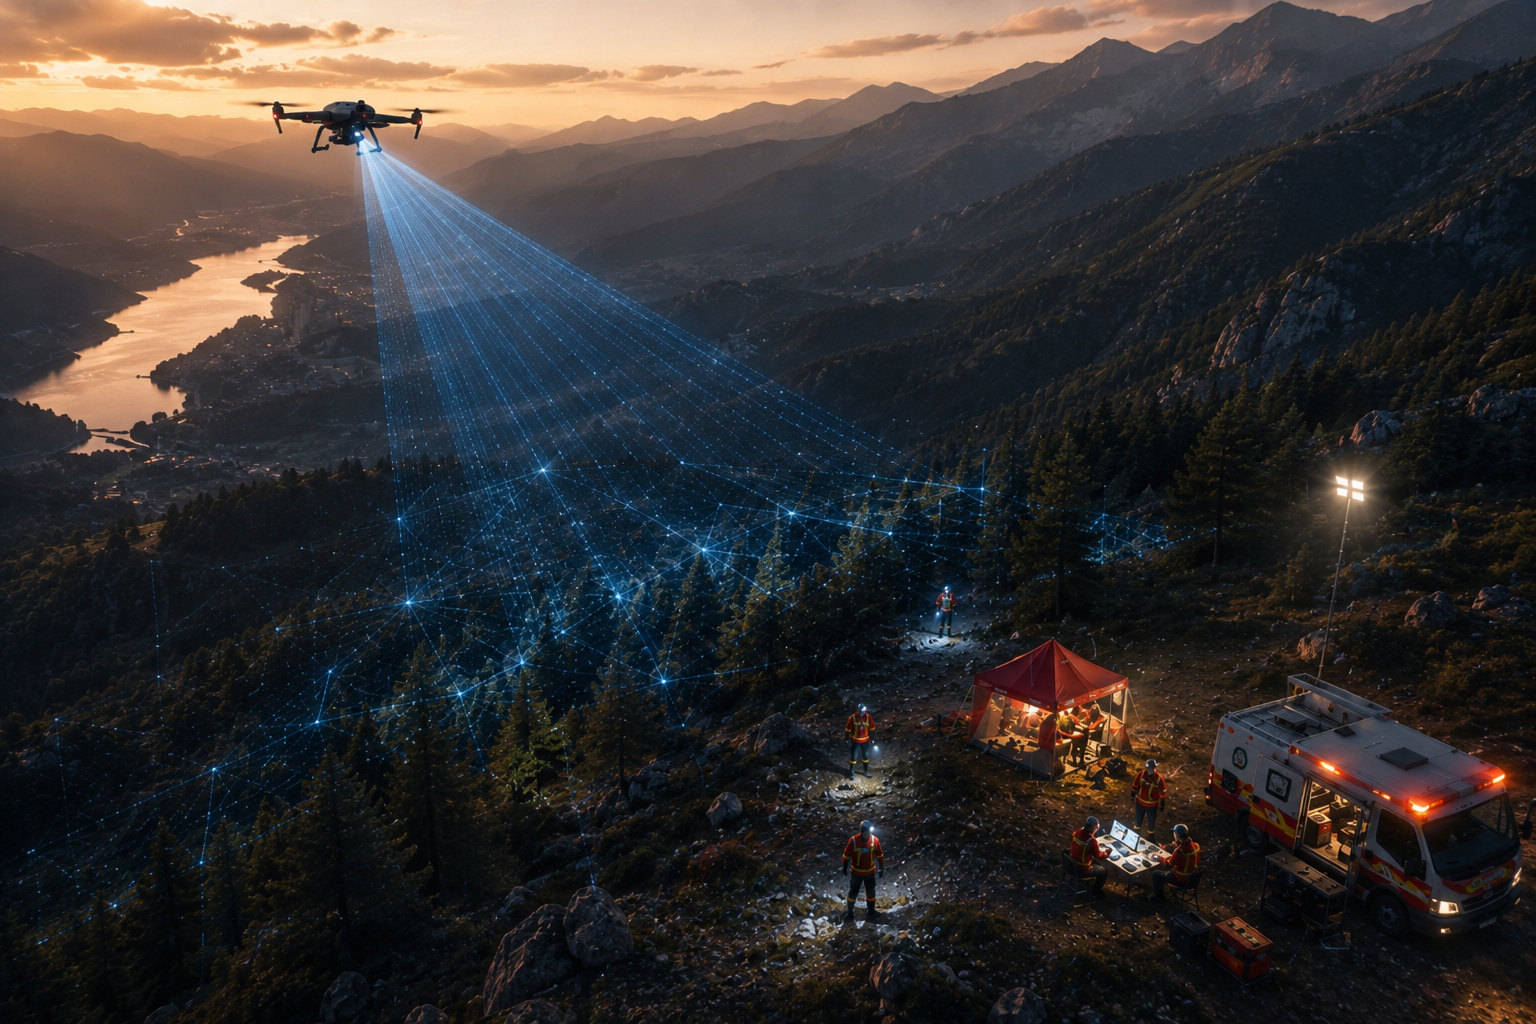
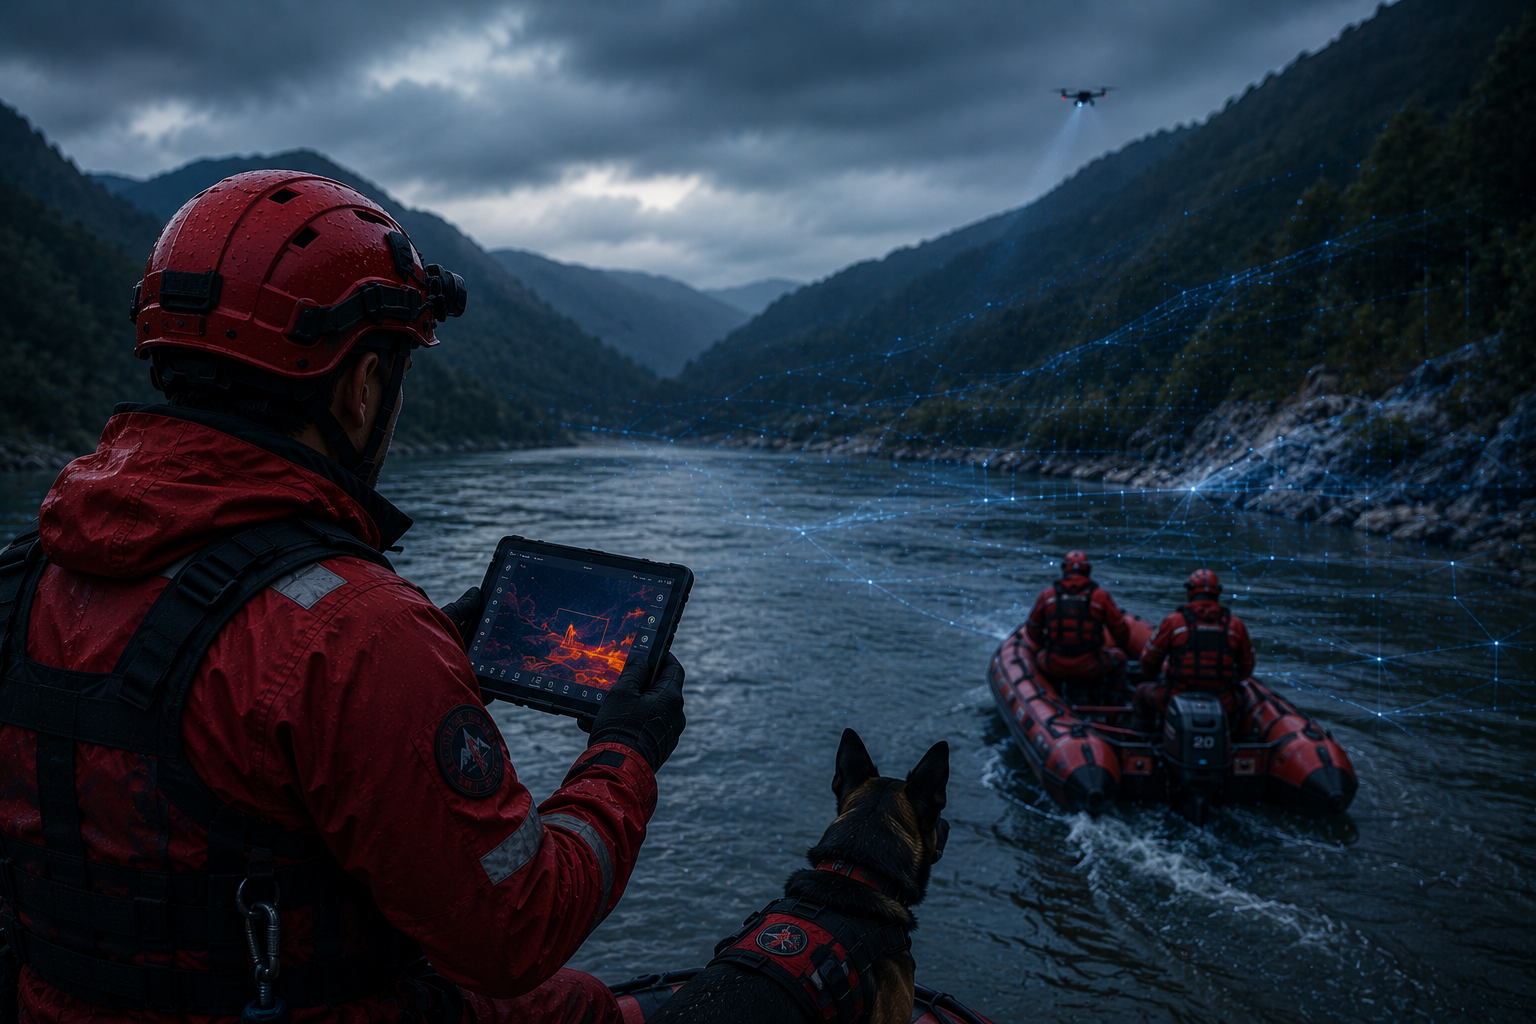
Update drone media and video modal styling

diff --git a/src/app/profesionalni-dronovi/page.module.scss b/src/app/profesionalni-dronovi/page.module.scss
@@ -988,12 +988,13 @@
   overflow: hidden;
   border: 1px solid var(--drone-line);
   background:
-    linear-gradient(rgba(56, 189, 248, 0.035) 1px, transparent 1px),
-    linear-gradient(90deg, rgba(56, 189, 248, 0.035) 1px, transparent 1px),
+    linear-gradient(rgba(56, 189, 248, 0.06) 1px, transparent 1px),
+    linear-gradient(90deg, rgba(56, 189, 248, 0.06) 1px, transparent 1px),
     #070a0f;
   background-size: 32px 32px, 32px 32px, auto;
   box-shadow: 0 30px 90px rgba(0, 0, 0, 0.52);
   cursor: default;
+  opacity: 1;
   pointer-events: auto;
 }
 
@@ -1004,28 +1005,38 @@
   align-items: center;
   justify-content: space-between;
   gap: 18px;
-  border-bottom: 1px solid var(--drone-line);
+  border-bottom: 1px solid rgba(56, 189, 248, 0.34);
+  background: #070a0f;
+  box-shadow: 0 12px 28px rgba(0, 0, 0, 0.38);
+  filter: none;
+  backdrop-filter: none;
+  opacity: 1;
   padding: 16px 18px;
+  transform: translateZ(0);
 
   div {
     display: grid;
     gap: 4px;
+    opacity: 1;
   }
 
   span {
-    color: var(--drone-accent-blue);
+    color: #67e8f9;
     font-family: var(--font-geist-mono), monospace;
     font-size: 10px;
     font-weight: 900;
     letter-spacing: 0.14em;
+    opacity: 1;
   }
 
   strong {
-    color: var(--drone-text);
+    color: #ffffff;
     font-family: var(--font-drone-display), var(--font-geist-sans), Arial, sans-serif;
     font-size: 20px;
     font-weight: 900;
     letter-spacing: 0.04em;
+    opacity: 1;
+    text-shadow: none;
     text-transform: uppercase;
   }
 
@@ -1038,12 +1049,27 @@
   width: 38px;
   height: 38px;
   place-items: center;
-  border: 1px solid var(--drone-line);
-  background: rgba(255, 255, 255, 0.045);
-  color: var(--drone-text);
+  border: 1px solid rgba(56, 189, 248, 0.44);
+  background: #101722;
+  color: #ffffff;
   cursor: pointer;
   font-size: 24px;
+  font-weight: 800;
+  filter: none;
   line-height: 1;
+  opacity: 1;
+  text-shadow: none;
+  backdrop-filter: none;
+  transition:
+    border-color 160ms ease,
+    background 160ms ease,
+    color 160ms ease;
+
+  &:hover {
+    border-color: var(--drone-accent);
+    background: #f97316;
+    color: #101010;
+  }
 }
 
 .videoFrame {
@@ -1071,6 +1097,8 @@
   grid-template-columns: repeat(2, minmax(0, 1fr));
   gap: 10px;
   border-top: 1px solid var(--drone-line);
+  background: #0b111a;
+  opacity: 1;
   padding: 14px;
   transform: translateZ(0);
 }
@@ -1084,13 +1112,14 @@
   align-items: center;
   gap: 12px;
   border: 1px solid var(--drone-line);
-  background: rgba(255, 255, 255, 0.04);
-  color: var(--drone-muted);
+  background: #111a26;
+  color: #dbeafe;
   cursor: pointer;
   font-family: var(--font-geist-mono), monospace;
   font-size: 11px;
   font-weight: 900;
   padding: 10px 12px;
+  opacity: 1;
   text-align: left;
   transition:
     border-color 160ms ease,
@@ -1103,14 +1132,20 @@
     font-size: 13px;
     letter-spacing: 0.04em;
     line-height: 1.15;
+    opacity: 1;
     text-transform: uppercase;
   }
 }
 
 .videoSwitchActive {
   border-color: var(--drone-accent-blue);
-  background: rgba(56, 189, 248, 0.1);
-  color: var(--drone-text);
+  background: #123044;
+  color: #ffffff;
+  opacity: 1;
+
+  span {
+    color: #ffffff;
+  }
 }
 
 .platformMain {